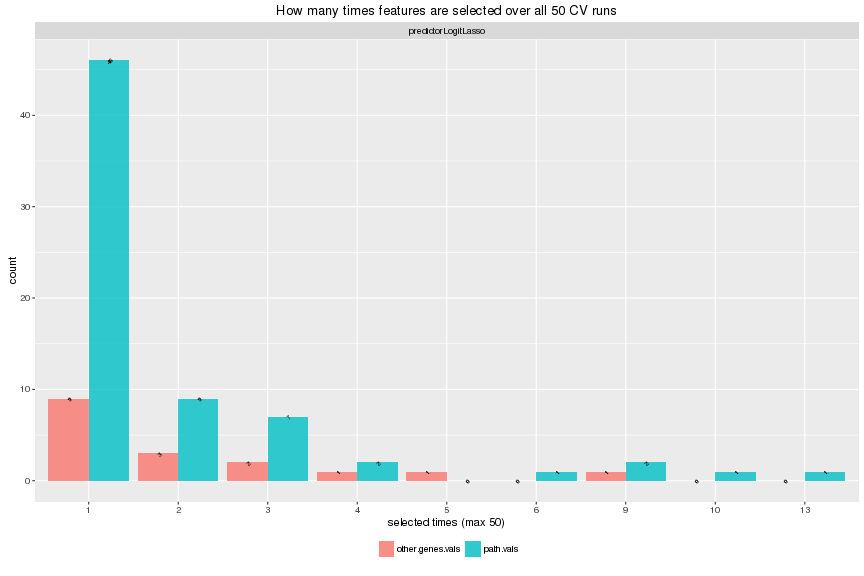
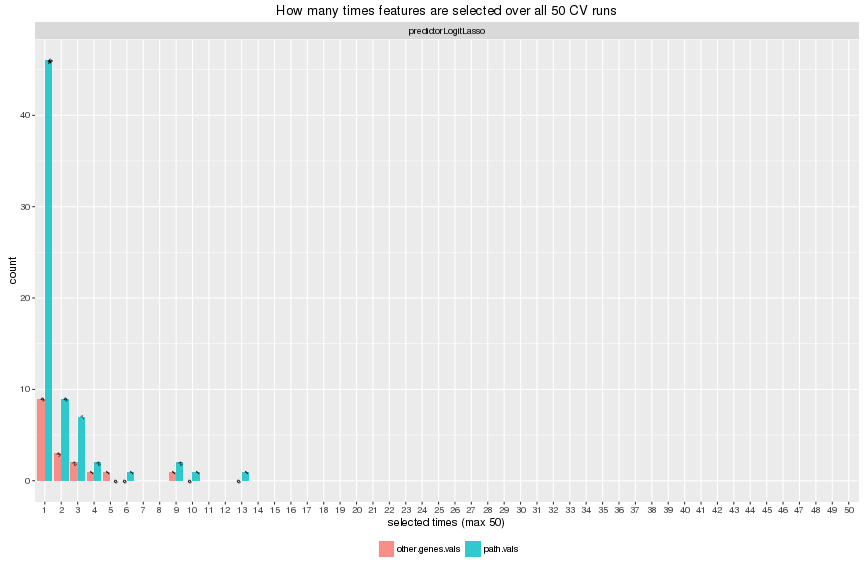
[results] fsResults plot bug fixed +

diff --git a/results/160310/7_fsResults.md b/results/160310/7_fsResults.md
@@ -342,7 +342,7 @@ for (yname in ylist) {
     geom_bar(aes(fill = xname), stat = "identity", position = "dodge", alpha = 0.8) + 
     geom_text(aes(label = value, group = xname), size = 2, angle = 45, colour = "black", position = position_dodge(0.9), vjust = 0.9) + 
     facet_wrap(~prname, scales = "free", ncol = 1) + 
-    scale_x_discrete(name = paste0("selected times (max ", nfolds*nrepeats, ")")) + 
+    scale_x_discrete(name = paste0("selected times (max ", nfolds*nrepeats, ")"), drop = FALSE) + 
     scale_y_continuous(name = "count") + 
     ggtitle(paste0("How many times features are selected over all ", nfolds*nrepeats, " CV runs")) + 
     theme(legend.title = element_blank(), legend.position = "bottom")
